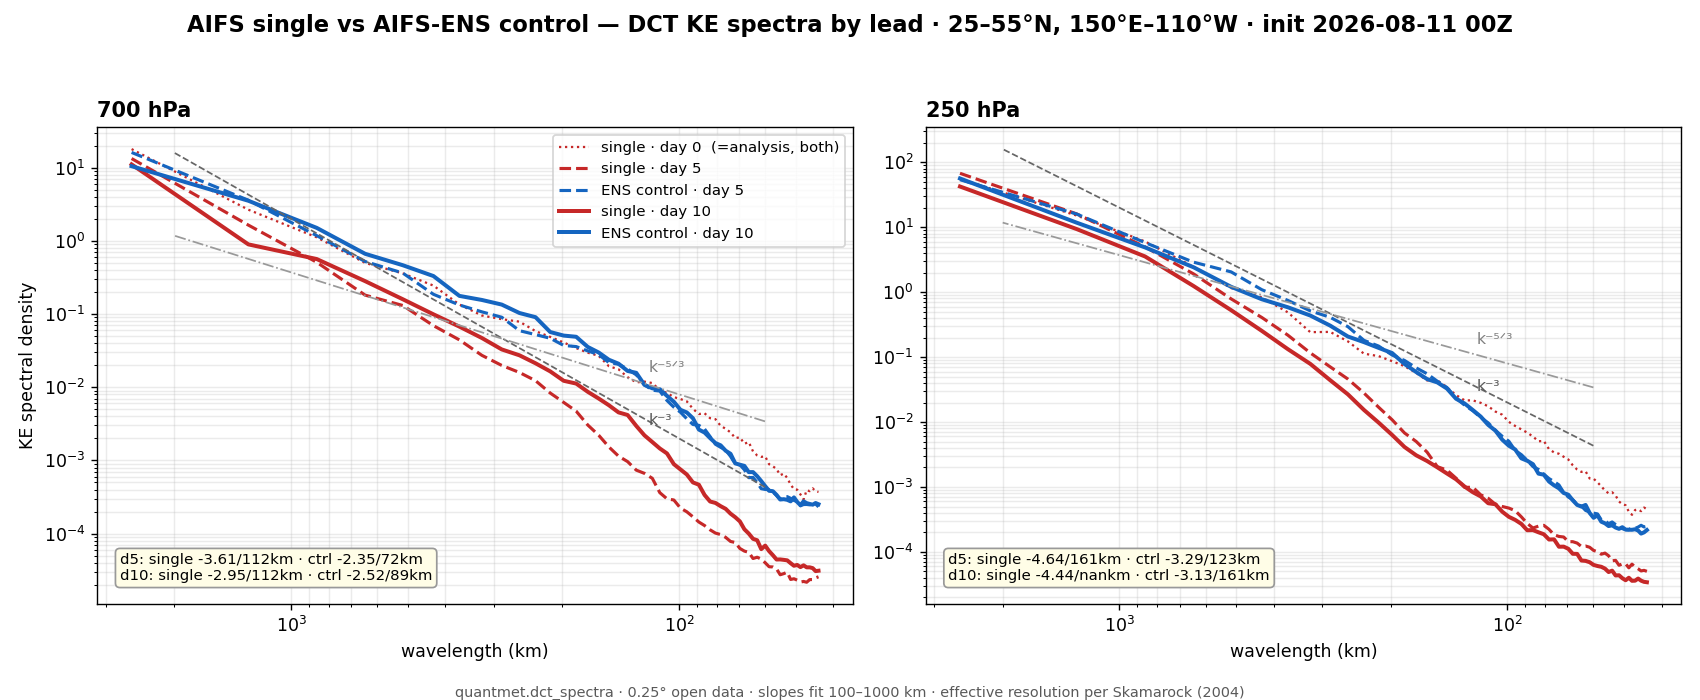
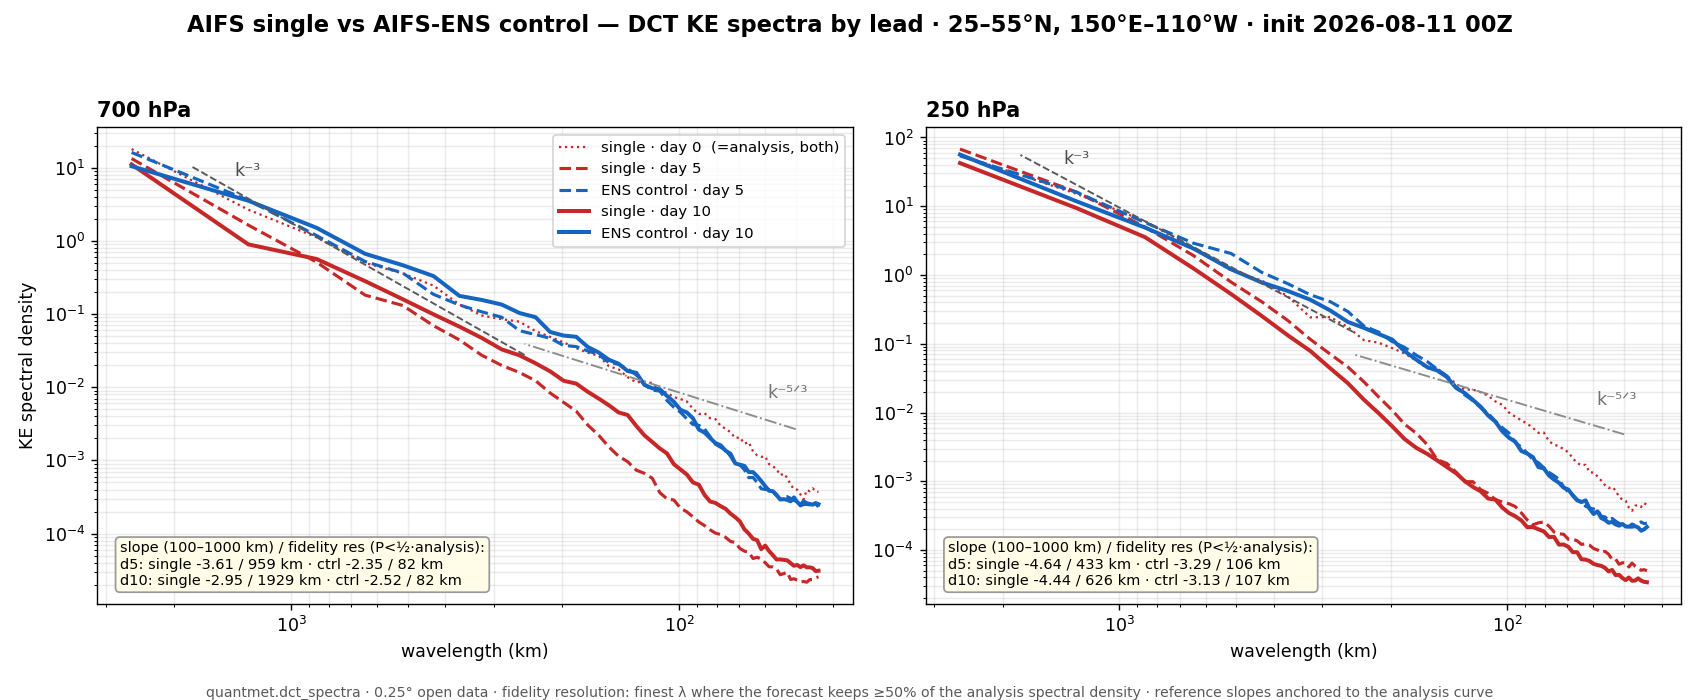
Case study v2: fidelity_resolution metric (always defined, measures energy loss vs own analysis), anchored reference slopes, corrected precip panel (tp is kg/m2 in AIFS open data, not m)

diff --git a/quantmet/dct_spectra.py b/quantmet/dct_spectra.py
@@ -17,7 +17,8 @@ import numpy as np
 import scipy.fft
 from scipy import stats
 
-__all__ = ["ke_spectrum", "spectral_slope", "effective_resolution"]
+__all__ = ["ke_spectrum", "spectral_slope", "effective_resolution",
+           "fidelity_resolution"]
 
 
 def ke_spectrum(u: np.ndarray, v: np.ndarray, res_km: float):
@@ -69,3 +70,26 @@ def effective_resolution(wavelengths, power, ref_slope: float = -5.0 / 3.0,
     ratio = 10 * np.log10(np.maximum(power, 1e-300) / model)
     below = np.where((wavelengths < fit_km[0]) & (ratio < -drop_db))[0]
     return float(wavelengths[below[0]]) if len(below) else float("nan")
+
+def fidelity_resolution(wl, p, p_ref, frac=0.5):
+    """Finest wavelength at which the spectrum still carries at least `frac`
+    of a reference spectrum's energy density — e.g. a forecast against its own
+    analysis. Unlike dissipation-range criteria (which can be undefined when a
+    spectrum has no clean roll-off), this is defined whenever the ratio drops
+    below `frac` anywhere, and it directly measures scale-dependent energy
+    loss rather than numerical damping. Returns NaN only if the spectrum never
+    falls below the threshold (fidelity maintained at all resolved scales)."""
+    import numpy as np
+    wl = np.asarray(wl, float)
+    r = np.asarray(p, float) / np.asarray(p_ref, float)
+    below = r < frac
+    if not below.any():
+        return float("nan")
+    i = np.argmax(below)                      # first scale (largest wl) below
+    if i == 0:
+        return float(wl[0])
+    # log-interpolate the crossing between i-1 and i
+    w1, w2 = np.log(wl[i - 1]), np.log(wl[i])
+    r1, r2 = r[i - 1], r[i]
+    t = (frac - r1) / (r2 - r1) if r2 != r1 else 0.0
+    return float(np.exp(w1 + t * (w2 - w1)))

diff --git a/examples/aifs_spectral_fidelity/spectra_by_lead.py b/examples/aifs_spectral_fidelity/spectra_by_lead.py
@@ -9,7 +9,7 @@ open-data retention window.
 import numpy as np
 import xarray as xr
 from ecmwf.opendata import Client
-from quantmet.dct_spectra import ke_spectrum, spectral_slope, effective_resolution
+from quantmet.dct_spectra import ke_spectrum, spectral_slope, fidelity_resolution
 
 DATE = "2026-08-11"
 STEPS = (0, 120, 240)
@@ -34,12 +34,17 @@ def box_uv(path, lev):
     return (u.values[:, order][np.ix_(mlat, mlon)],
             v.values[:, order][np.ix_(mlat, mlon)])
 
+ref = {}
 res_km = 111.2 * 0.25 * np.cos(np.deg2rad(40.0))
 for lev in LEVS:
     for step in STEPS:
         for model in ("aifs-single", "aifs-ens"):
             u, v = box_uv(f"{model}_{lev}_s{step}.grib2", lev)
             wl, p = ke_spectrum(u, v, res_km=res_km)
+            if step == 0:
+                ref[(lev, model)] = p
+            fr = fidelity_resolution(wl, p, ref[(lev, model)])
             print(f"{lev:>4} hPa day {step//24:>2} {model:>12}: "
                   f"slope {spectral_slope(wl, p, 100, 1000):+.2f} · "
-                  f"eff res {effective_resolution(wl, p):.0f} km")
+                  f"fidelity res {fr:.0f} km" if step else
+                  f"{lev:>4} hPa day  0 {model:>12}: analysis reference")

diff --git a/examples/aifs_spectral_fidelity/README.md b/examples/aifs_spectral_fidelity/README.md
@@ -12,10 +12,20 @@ init 2026-08-11 00Z (dotted = analysis, identical for both by construction):
 
 | lead | level | AIFS single | AIFS-ENS control |
 |---|---|---|---|
-| day 5 | 700 hPa | slope −3.61 · eff. res 112 km | slope −2.35 · eff. res 72 km |
-| day 10 | 700 hPa | curve sinks further (slope −2.95 is a flattening artifact of overall variance loss) | slope −2.52 · eff. res 89 km |
-| day 5 | 250 hPa | −4.64 · 161 km | −3.29 · 123 km |
-| day 10 | 250 hPa | −4.44 · eff. res undefined (spectrum too degraded) | −3.13 · 161 km |
+| day 5 | 700 hPa | slope −3.61 · fidelity res 959 km | slope −2.35 · fidelity res 82 km |
+| day 10 | 700 hPa | −2.95 · **1929 km** | −2.52 · 82 km |
+| day 5 | 250 hPa | −4.64 · 433 km | −3.29 · 106 km |
+| day 10 | 250 hPa | −4.44 · 626 km | −3.13 · 107 km |
+
+**Fidelity resolution** (`quantmet.dct_spectra.fidelity_resolution`): the
+finest wavelength at which a forecast still carries ≥50% of its own
+*analysis* spectral density. Unlike dissipation-range criteria it is defined
+for any forecast, and it measures scale-dependent energy loss directly. A
+fair objection — a day-10 spectrum may legitimately differ from day 0 because
+the *weather* changed — answers itself here: both models rode the same
+regime, and the control held the analysis spectrum to ~100 km throughout, so
+the atmosphere's spectrum was quasi-stationary and the single's departure is
+model smoothing, not meteorology.
 
 The deterministic model slides toward an ensemble-mean-like state — MSE
 rewards hedging, so unpredictable scales are averaged away, progressively and
